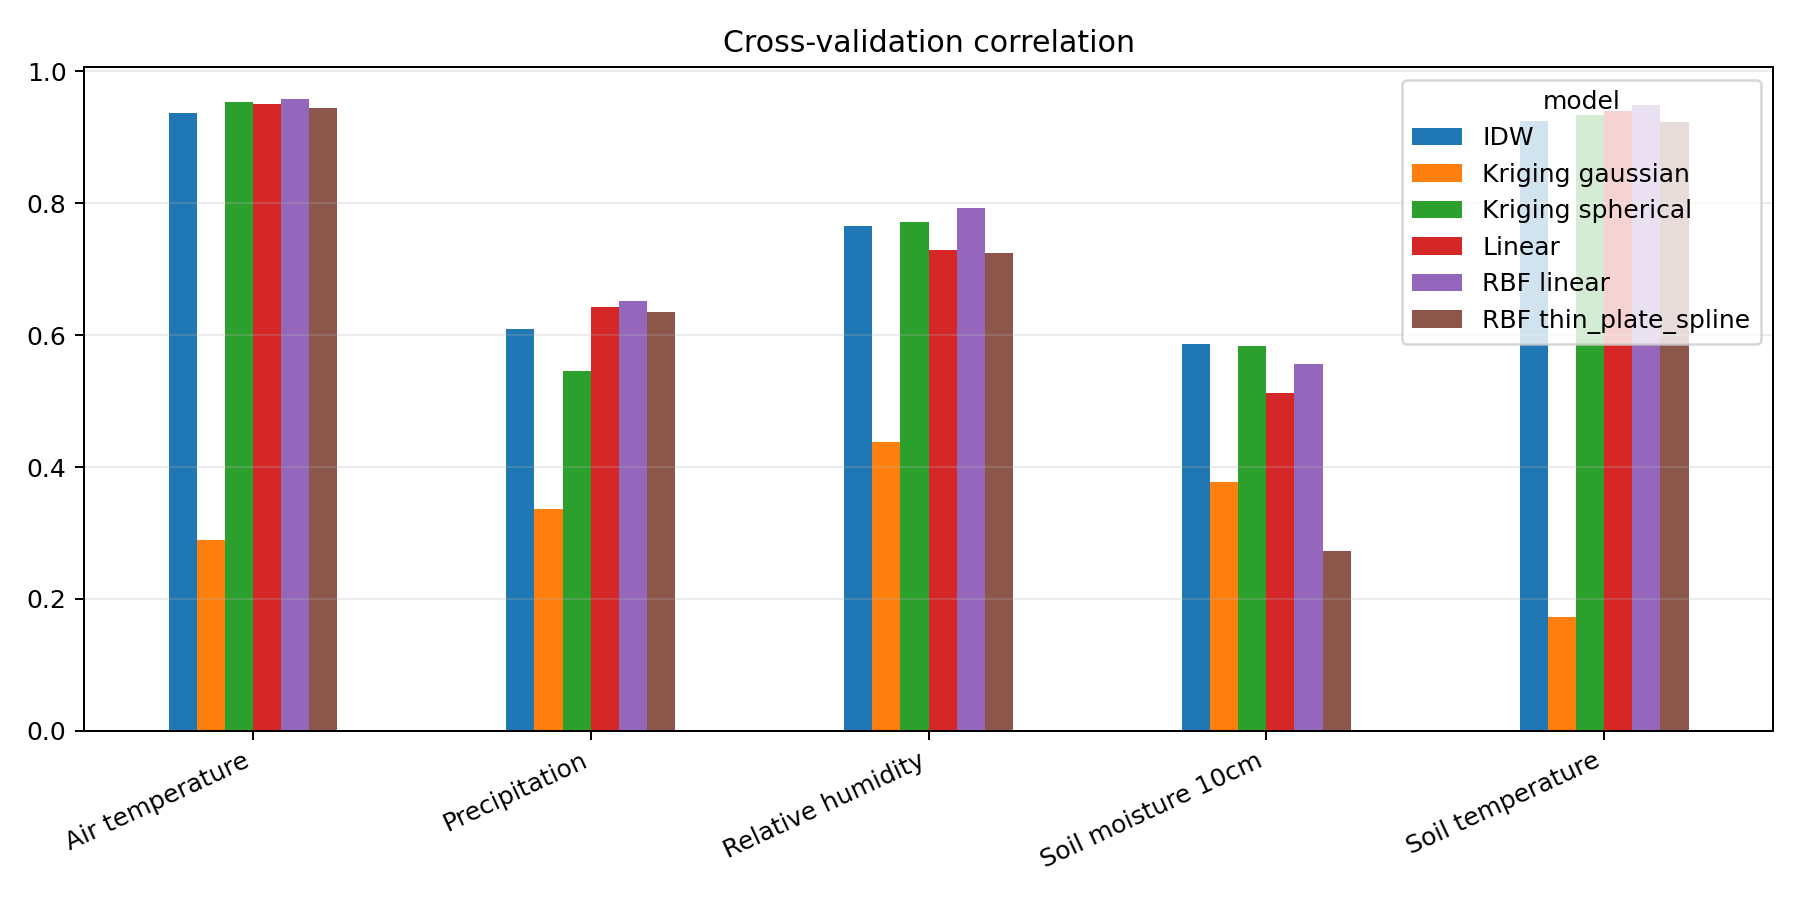
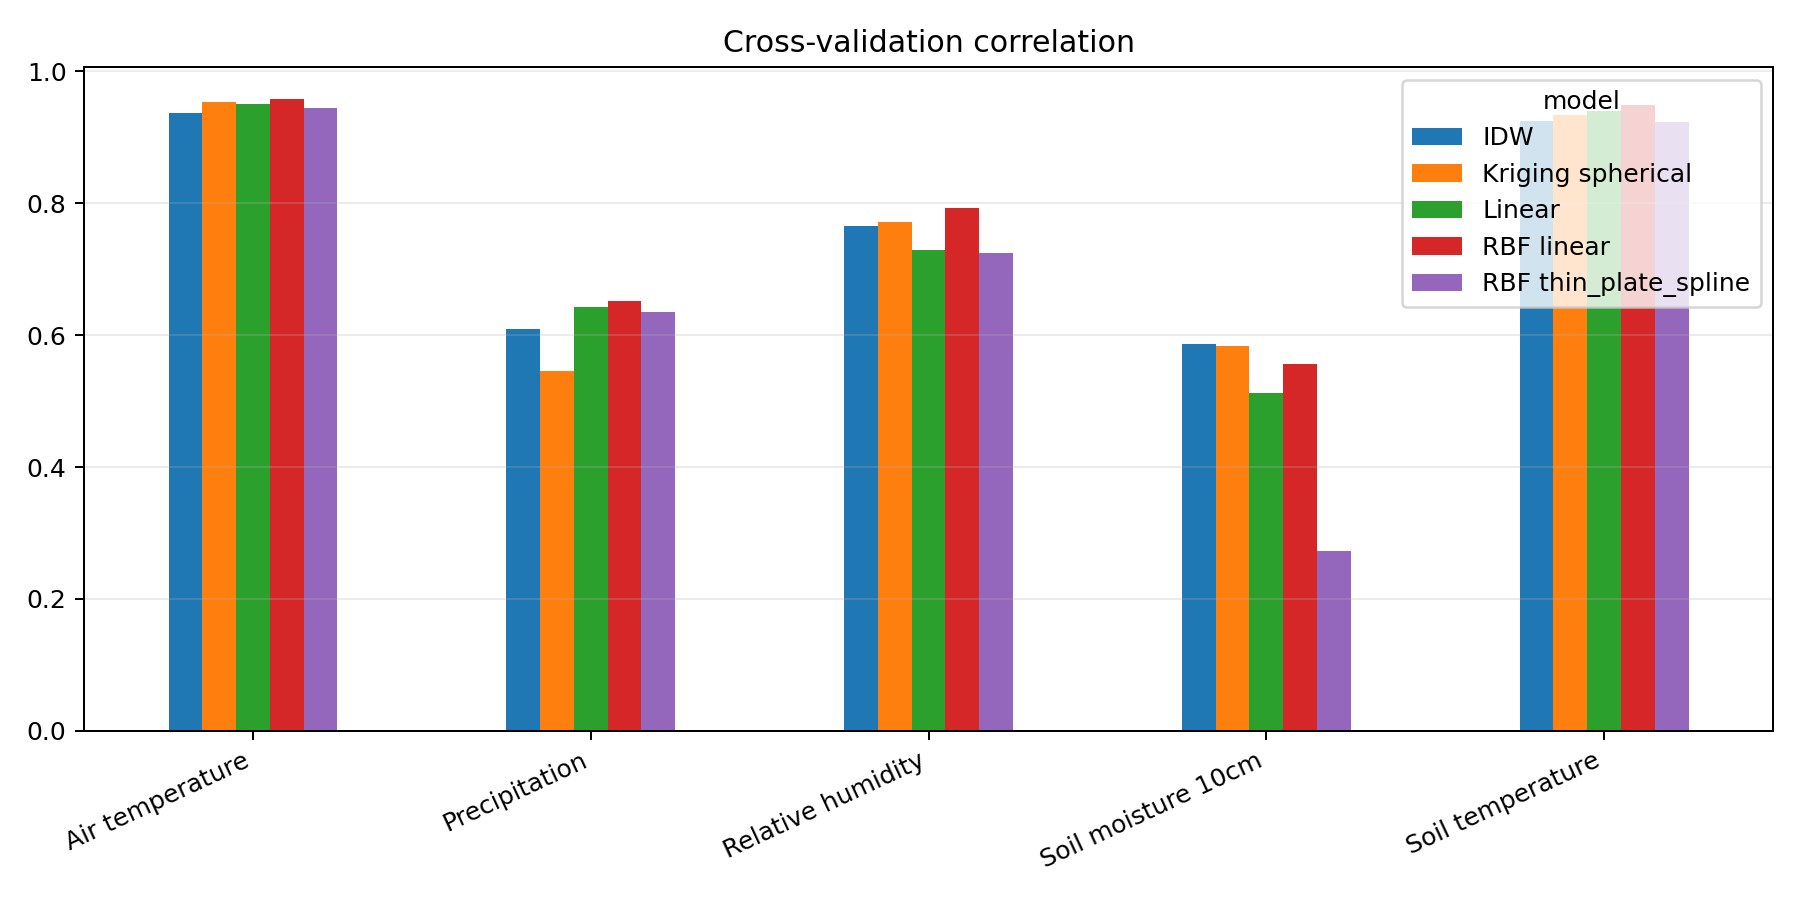
Updated

diff --git a/main.py b/main.py
@@ -280,6 +280,7 @@ def plot_model_metrics(metrics):
     if metrics.empty:
         return
     avg = metrics.groupby(["variable", "model"], as_index=False)[["rmse", "correlation"]].mean()
+    avg = avg[avg["model"] != "Kriging gaussian"]
     for measure in ["rmse", "correlation"]:
         pivot = avg.pivot(index="variable", columns="model", values=measure)
         ax = pivot.plot(kind="bar", figsize=(10, 5))
@@ -290,7 +291,6 @@ def plot_model_metrics(metrics):
         plt.tight_layout()
         plt.savefig(FIG / f"model_{measure}.png", dpi=180)
         plt.close()
-
 
 def plot_seasonality(seasonal_long):
     if seasonal_long.empty:
